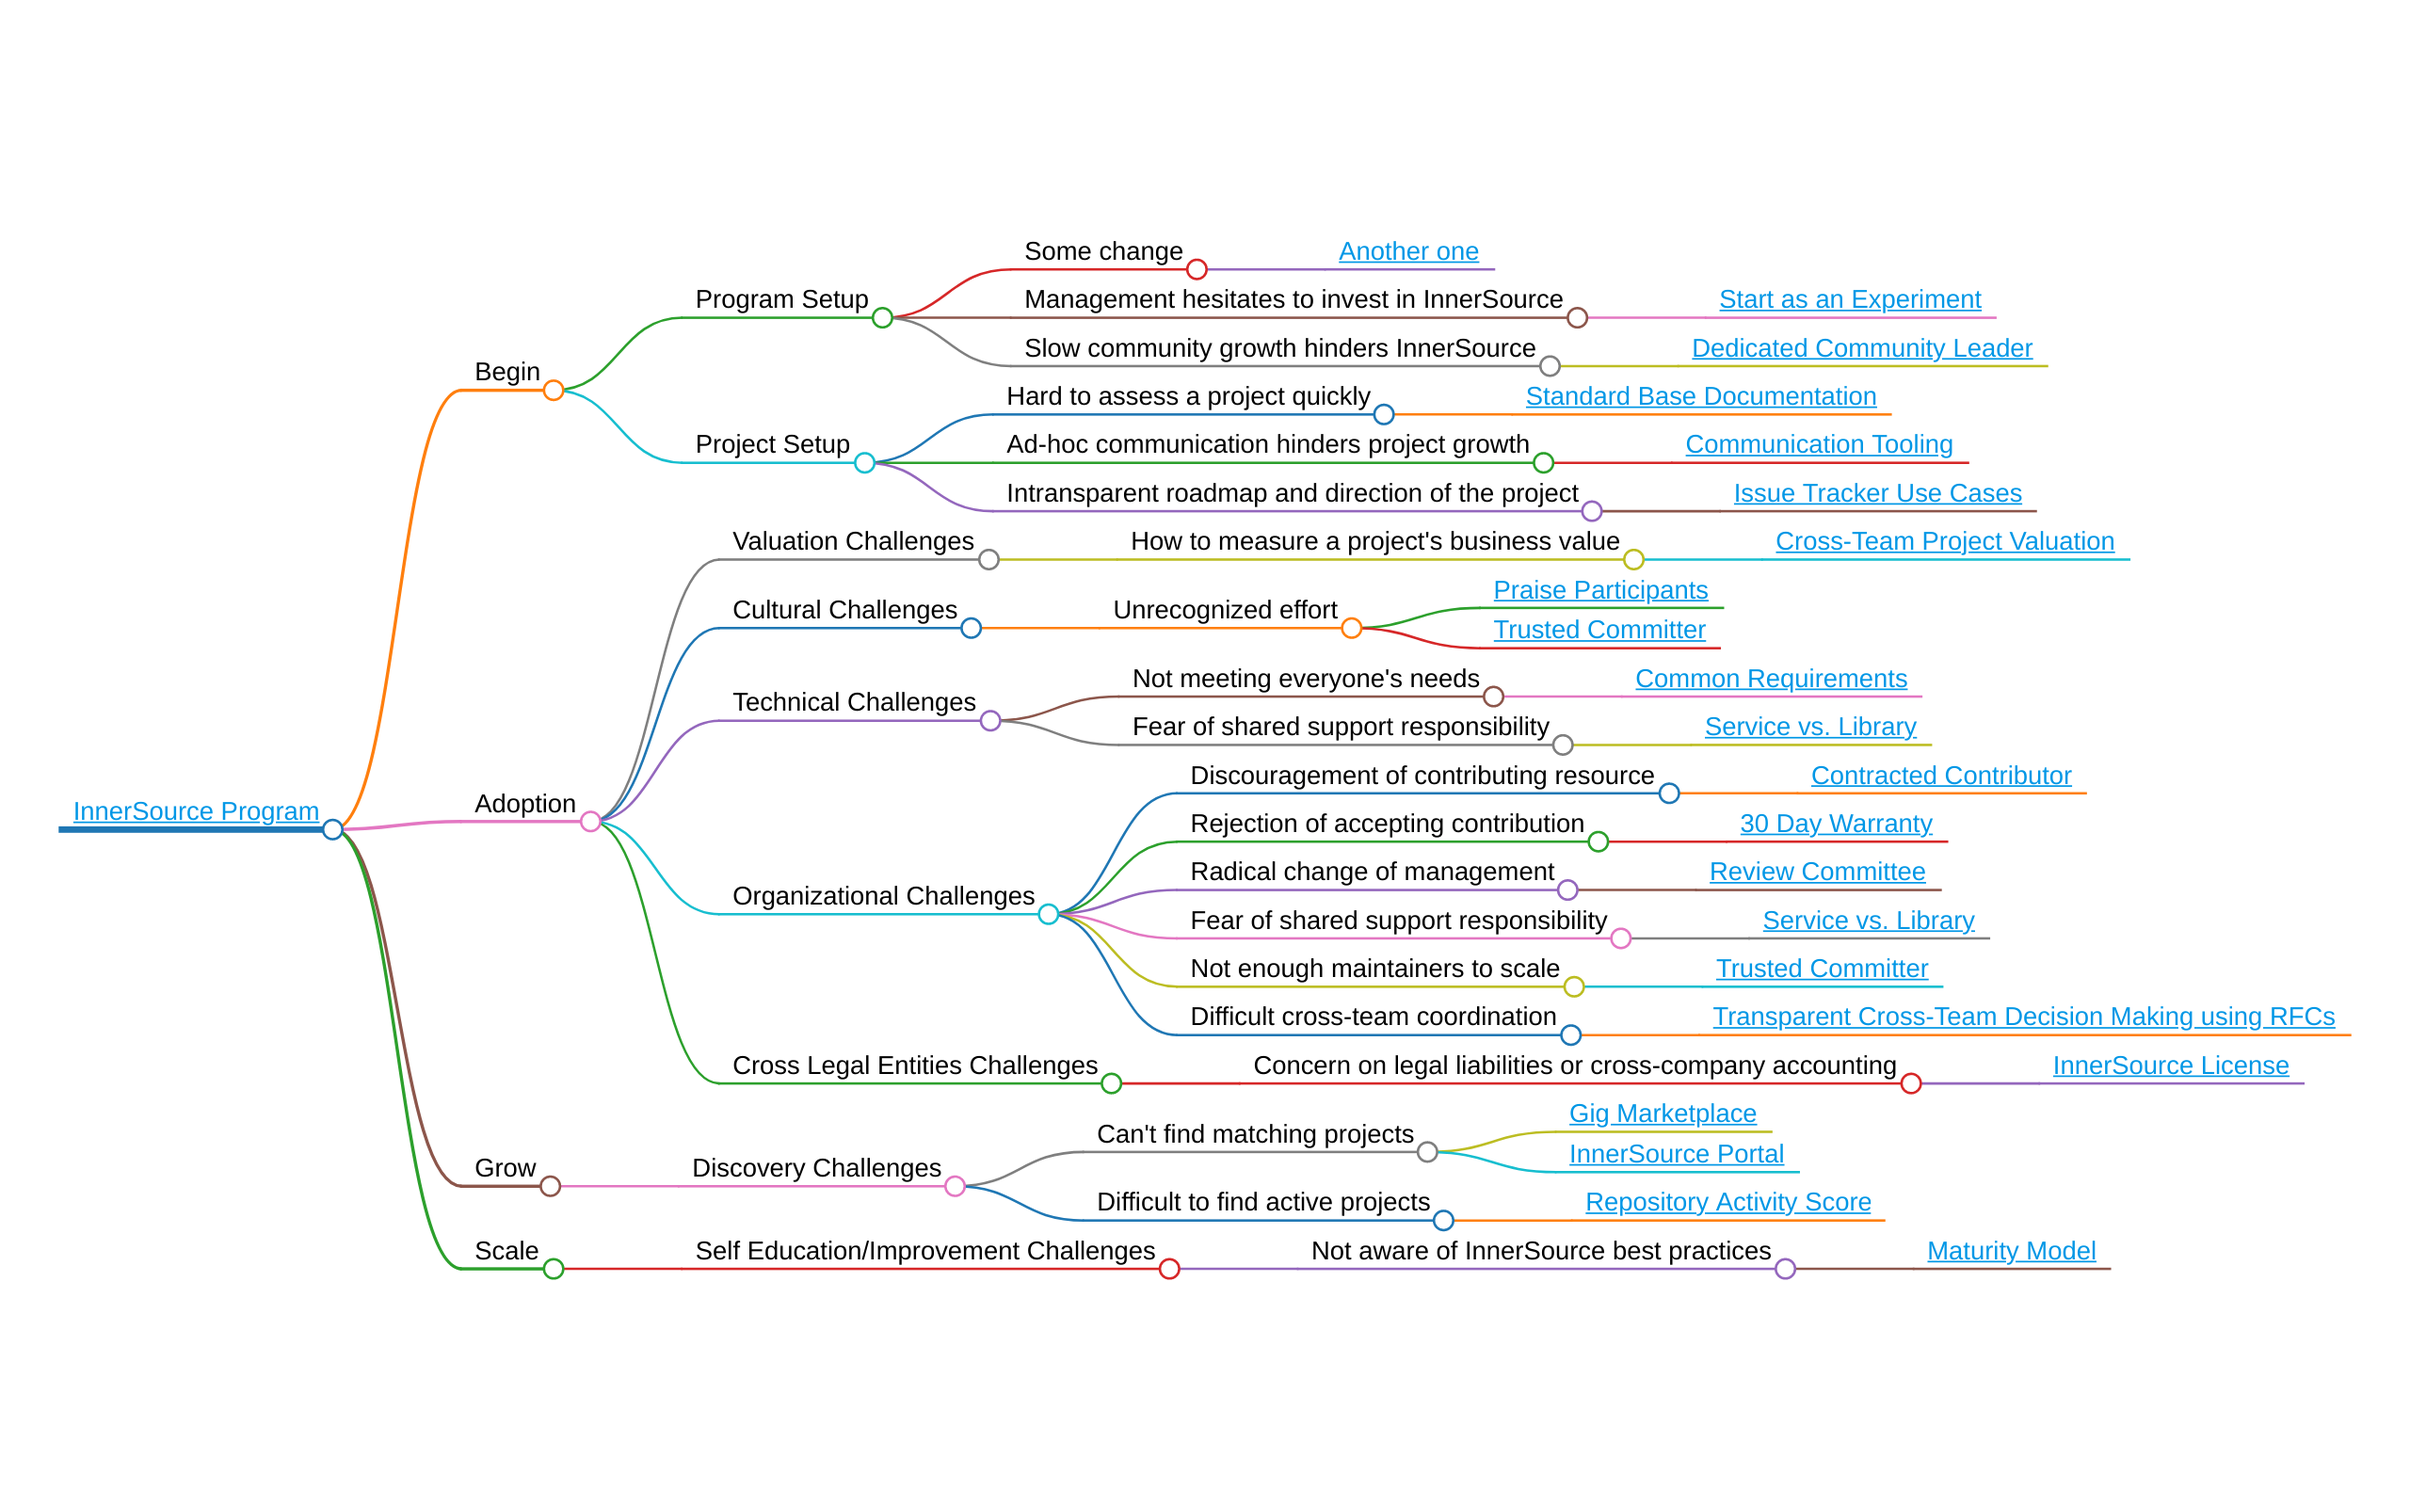
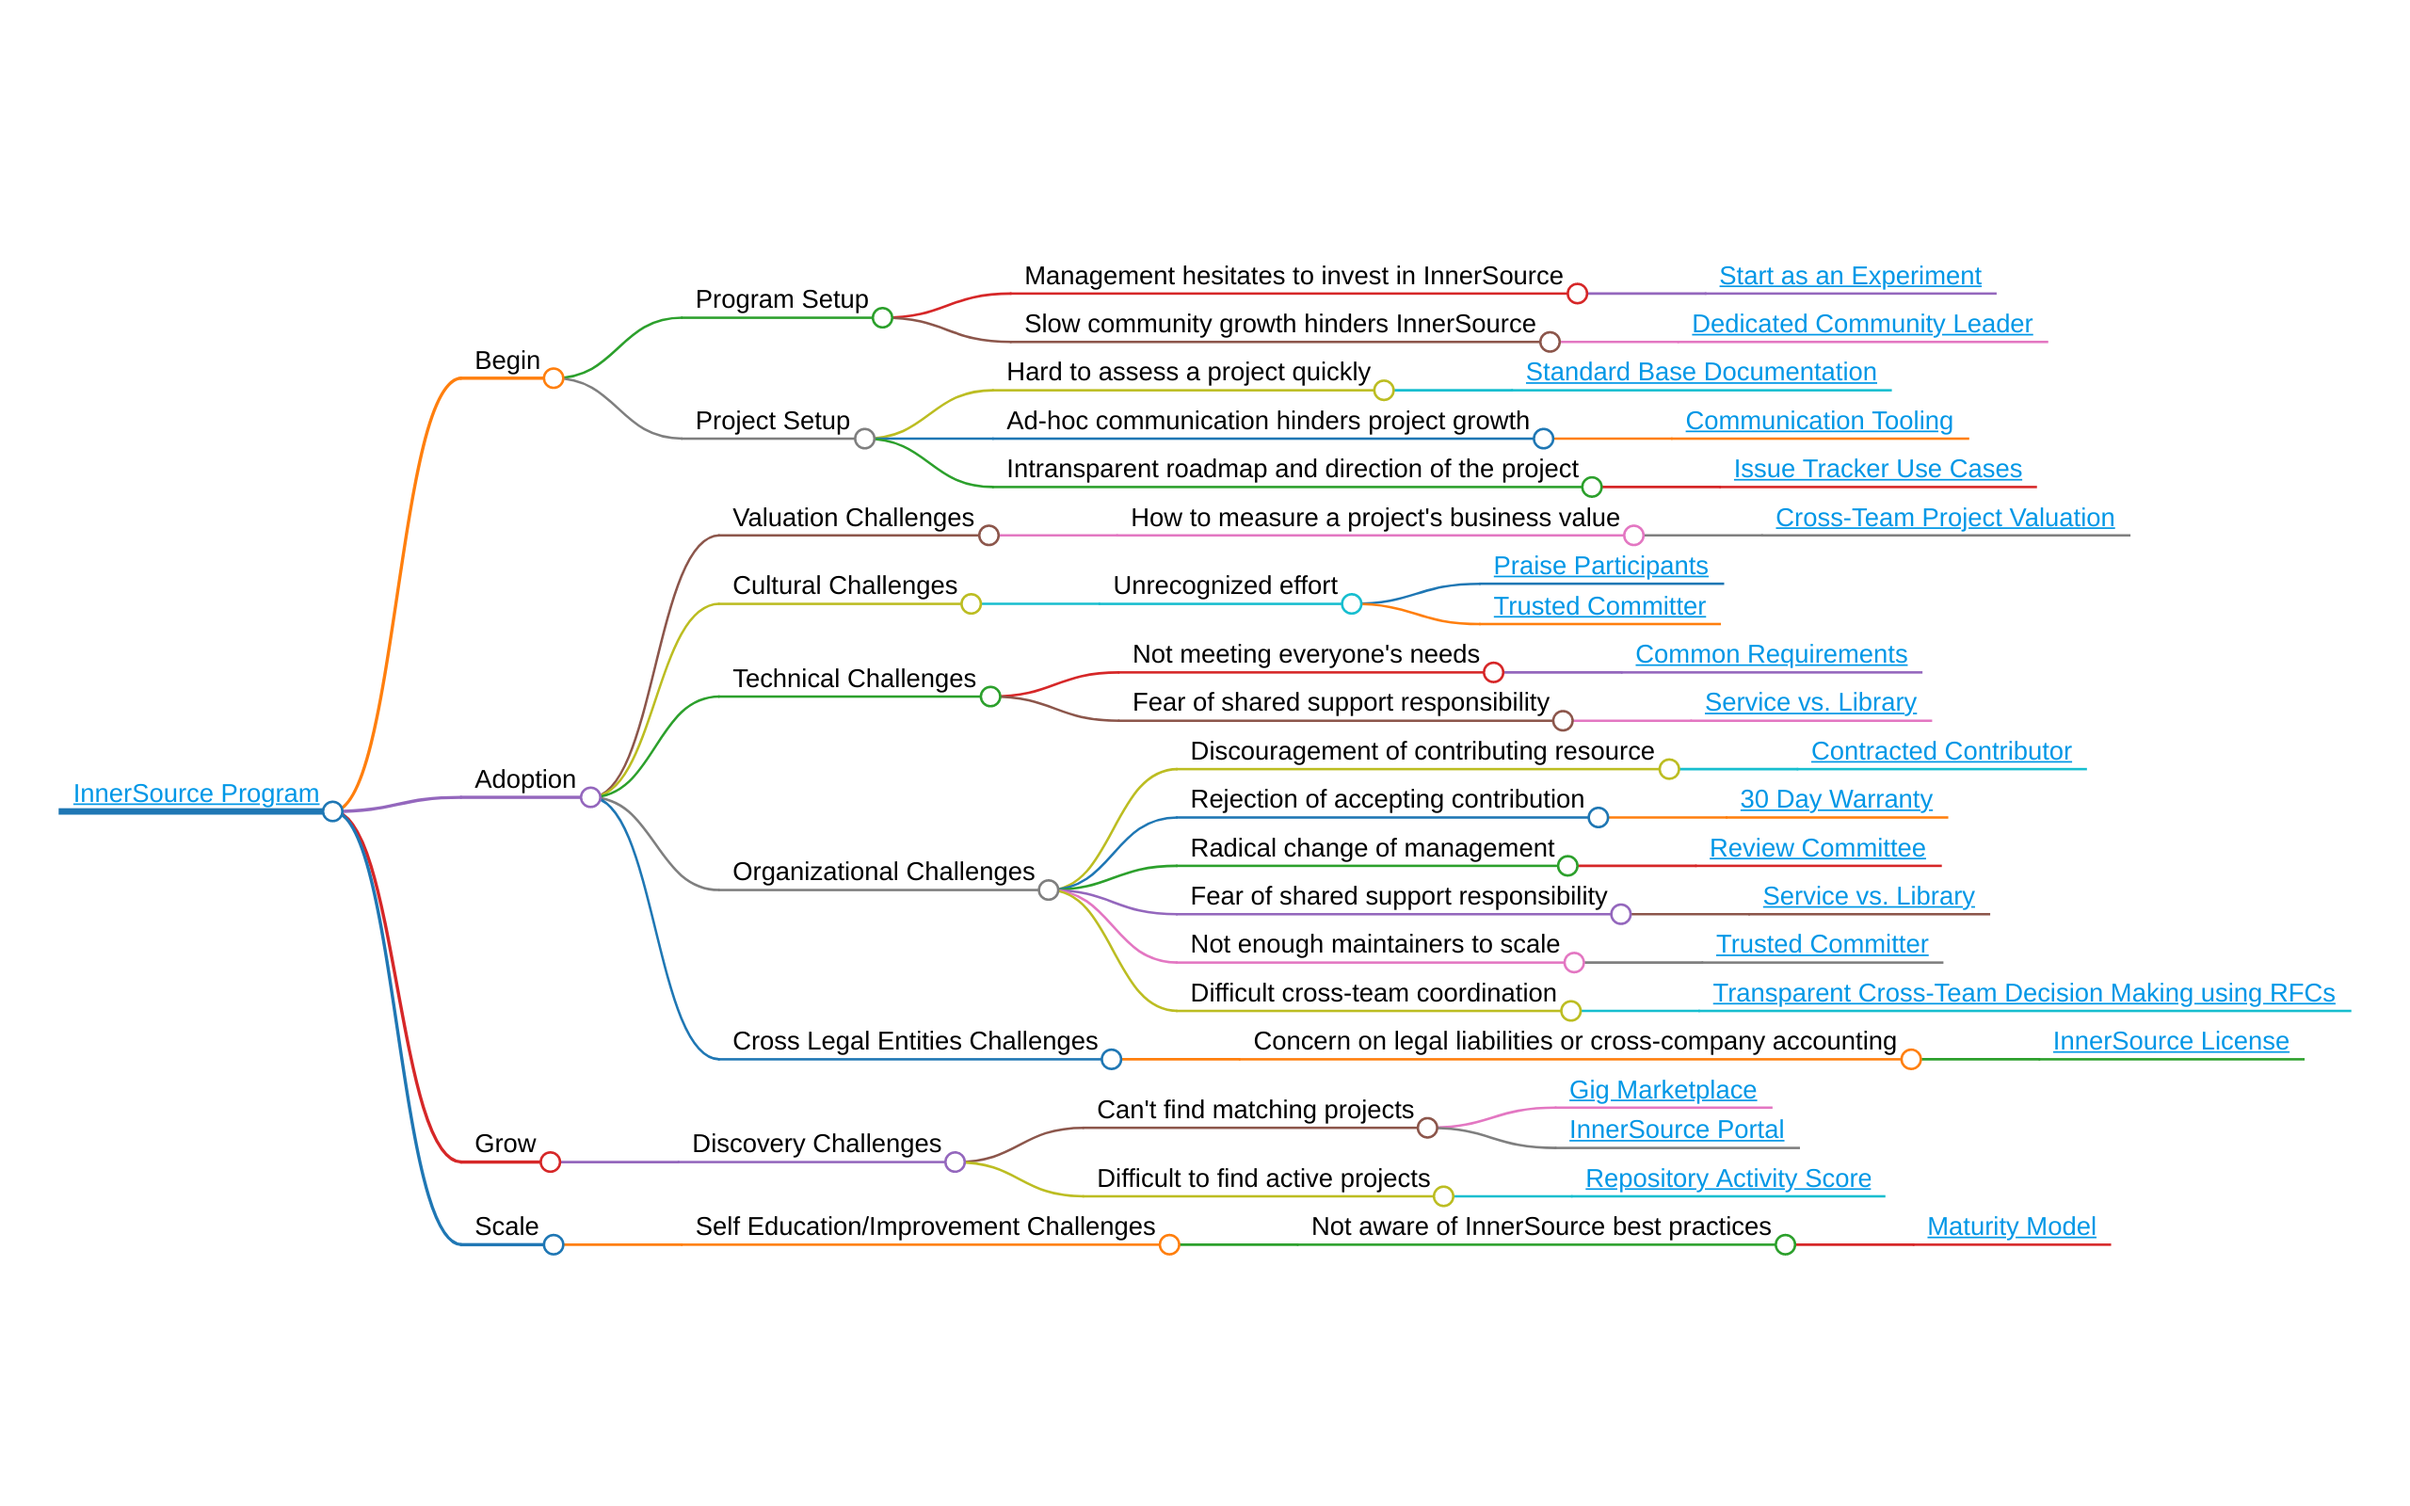
Re-creating markmap and screenshot

Changed region(s): [[0.0312, 0.1562, 0.9688, 0.8438], [0.1875, 0.2188, 0.25, 0.2812]]

diff --git a/pattern-categorization/innersource-program-mind-map.html b/pattern-categorization/innersource-program-mind-map.html
@@ -25,6 +25,6 @@
           Markmap
         } = getMarkmap();
         window.mm = Markmap.create('svg#mindmap', getOptions == null ? void 0 : getOptions(), data);
-      })(() => window.markmap,null,{"t":"heading","d":1,"p":{"lines":[0,1]},"v":"<a href=\"https://patterns.innersourcecommons.org/toc\">InnerSource Program</a>","c":[{"t":"heading","d":2,"p":{"lines":[2,3]},"v":"Begin","c":[{"t":"heading","d":3,"p":{"lines":[4,5]},"v":"Program Setup","c":[{"t":"heading","d":4,"p":{"lines":[6,7]},"v":"Some change","c":[{"t":"heading","d":5,"p":{"lines":[8,9]},"v":"<a href=\"https://patterns.innersourcecommons.org/p/start-as-experiment\">Another one</a>"}]},{"t":"heading","d":4,"p":{"lines":[10,11]},"v":"Management hesitates to invest in InnerSource","c":[{"t":"heading","d":5,"p":{"lines":[12,13]},"v":"<a href=\"https://patterns.innersourcecommons.org/p/start-as-experiment\">Start as an Experiment</a>"}]},{"t":"heading","d":4,"p":{"lines":[14,15]},"v":"Slow community growth hinders InnerSource","c":[{"t":"heading","d":5,"p":{"lines":[16,17]},"v":"<a href=\"https://patterns.innersourcecommons.org/p/dedicated-community-leader\">Dedicated Community Leader</a>"}]}]},{"t":"heading","d":3,"p":{"lines":[18,19]},"v":"Project Setup","c":[{"t":"heading","d":4,"p":{"lines":[20,21]},"v":"Hard to assess a project quickly","c":[{"t":"heading","d":5,"p":{"lines":[22,23]},"v":"<a href=\"https://patterns.innersourcecommons.org/p/base-documentation\">Standard Base Documentation</a>"}]},{"t":"heading","d":4,"p":{"lines":[24,25]},"v":"Ad-hoc communication hinders project growth","c":[{"t":"heading","d":5,"p":{"lines":[26,27]},"v":"<a href=\"https://patterns.innersourcecommons.org/p/communication-tooling\">Communication Tooling</a>"}]},{"t":"heading","d":4,"p":{"lines":[28,29]},"v":"Intransparent roadmap and direction of the project","c":[{"t":"heading","d":5,"p":{"lines":[30,31]},"v":"<a href=\"https://patterns.innersourcecommons.org/p/issue-tracker\">Issue Tracker Use Cases</a>"}]}]}]},{"t":"heading","d":2,"p":{"lines":[32,33]},"v":"Adoption","c":[{"t":"heading","d":3,"p":{"lines":[34,35]},"v":"Valuation Challenges","c":[{"t":"heading","d":4,"p":{"lines":[36,37]},"v":"How to measure a project's business value","c":[{"t":"heading","d":5,"p":{"lines":[38,39]},"v":"<a href=\"https://patterns.innersourcecommons.org/p/crossteam-project-valuation\">Cross-Team Project Valuation</a>"}]}]},{"t":"heading","d":3,"p":{"lines":[40,41]},"v":"Cultural Challenges","c":[{"t":"heading","d":4,"p":{"lines":[42,43]},"v":"Unrecognized effort","c":[{"t":"heading","d":5,"p":{"lines":[44,45]},"v":"<a href=\"https://patterns.innersourcecommons.org/p/praise-participants\">Praise Participants</a>"},{"t":"heading","d":5,"p":{"lines":[46,47]},"v":"<a href=\"https://patterns.innersourcecommons.org/p/trusted-committer\">Trusted Committer</a>"}]}]},{"t":"heading","d":3,"p":{"lines":[48,49]},"v":"Technical Challenges","c":[{"t":"heading","d":4,"p":{"lines":[50,51]},"v":"Not meeting everyone's needs","c":[{"t":"heading","d":5,"p":{"lines":[52,53]},"v":"<a href=\"https://patterns.innersourcecommons.org/p/common-requirements\">Common Requirements</a>"}]},{"t":"heading","d":4,"p":{"lines":[54,55]},"v":"Fear of shared support responsibility","c":[{"t":"heading","d":5,"p":{"lines":[56,57]},"v":"<a href=\"https://patterns.innersourcecommons.org/p/service-vs-library\">Service vs. Library</a>"}]}]},{"t":"heading","d":3,"p":{"lines":[58,59]},"v":"Organizational Challenges","c":[{"t":"heading","d":4,"p":{"lines":[60,61]},"v":"Discouragement of contributing resource","c":[{"t":"heading","d":5,"p":{"lines":[62,63]},"v":"<a href=\"https://patterns.innersourcecommons.org/p/contracted-contributor\">Contracted Contributor</a>"}]},{"t":"heading","d":4,"p":{"lines":[64,65]},"v":"Rejection of accepting contribution","c":[{"t":"heading","d":5,"p":{"lines":[66,67]},"v":"<a href=\"https://patterns.innersourcecommons.org/p/30-day-warranty\">30 Day Warranty</a>"}]},{"t":"heading","d":4,"p":{"lines":[68,69]},"v":"Radical change of management","c":[{"t":"heading","d":5,"p":{"lines":[70,71]},"v":"<a href=\"https://patterns.innersourcecommons.org/p/review-committee\">Review Committee</a>"}]},{"t":"heading","d":4,"p":{"lines":[72,73]},"v":"Fear of shared support responsibility","c":[{"t":"heading","d":5,"p":{"lines":[74,75]},"v":"<a href=\"https://patterns.innersourcecommons.org/p/service-vs-library\">Service vs. Library</a>"}]},{"t":"heading","d":4,"p":{"lines":[76,77]},"v":"Not enough maintainers to scale","c":[{"t":"heading","d":5,"p":{"lines":[78,79]},"v":"<a href=\"https://patterns.innersourcecommons.org/p/trusted-committer\">Trusted Committer</a>"}]},{"t":"heading","d":4,"p":{"lines":[80,81]},"v":"Difficult cross-team coordination","c":[{"t":"heading","d":5,"p":{"lines":[82,83]},"v":"<a href=\"https://patterns.innersourcecommons.org/p/transparent-cross-team-decision-making-using-rfcs\">Transparent Cross-Team Decision Making using RFCs</a>"}]}]},{"t":"heading","d":3,"p":{"lines":[84,85]},"v":"Cross Legal Entities Challenges","c":[{"t":"heading","d":4,"p":{"lines":[86,87]},"v":"Concern on legal liabilities or cross-company accounting","c":[{"t":"heading","d":5,"p":{"lines":[88,89]},"v":"<a href=\"https://patterns.innersourcecommons.org/p/innersource-license\">InnerSource License</a>"}]}]}]},{"t":"heading","d":2,"p":{"lines":[90,91]},"v":"Grow","c":[{"t":"heading","d":3,"p":{"lines":[92,93]},"v":"Discovery Challenges","c":[{"t":"heading","d":4,"p":{"lines":[94,95]},"v":"Can't find matching projects","c":[{"t":"heading","d":5,"p":{"lines":[96,97]},"v":"<a href=\"https://patterns.innersourcecommons.org/p/gig-marketplace\">Gig Marketplace</a>"},{"t":"heading","d":5,"p":{"lines":[98,99]},"v":"<a href=\"https://patterns.innersourcecommons.org/p/innersource-portal\">InnerSource Portal</a>"}]},{"t":"heading","d":4,"p":{"lines":[100,101]},"v":"Difficult to find active projects","c":[{"t":"heading","d":5,"p":{"lines":[102,103]},"v":"<a href=\"https://patterns.innersourcecommons.org/p/repository-activity-score\">Repository Activity Score</a>"}]}]}]},{"t":"heading","d":2,"p":{"lines":[104,105]},"v":"Scale","c":[{"t":"heading","d":3,"p":{"lines":[106,107]},"v":"Self Education/Improvement Challenges","c":[{"t":"heading","d":4,"p":{"lines":[108,109]},"v":"Not aware of InnerSource best practices","c":[{"t":"heading","d":5,"p":{"lines":[110,111]},"v":"<a href=\"https://patterns.innersourcecommons.org/p/maturity-model\">Maturity Model</a>"}]}]}]}]})</script>
+      })(() => window.markmap,null,{"t":"heading","d":1,"p":{"lines":[0,1]},"v":"<a href=\"https://patterns.innersourcecommons.org/toc\">InnerSource Program</a>","c":[{"t":"heading","d":2,"p":{"lines":[2,3]},"v":"Begin","c":[{"t":"heading","d":3,"p":{"lines":[4,5]},"v":"Program Setup","c":[{"t":"heading","d":4,"p":{"lines":[6,7]},"v":"Management hesitates to invest in InnerSource","c":[{"t":"heading","d":5,"p":{"lines":[8,9]},"v":"<a href=\"https://patterns.innersourcecommons.org/p/start-as-experiment\">Start as an Experiment</a>"}]},{"t":"heading","d":4,"p":{"lines":[10,11]},"v":"Slow community growth hinders InnerSource","c":[{"t":"heading","d":5,"p":{"lines":[12,13]},"v":"<a href=\"https://patterns.innersourcecommons.org/p/dedicated-community-leader\">Dedicated Community Leader</a>"}]}]},{"t":"heading","d":3,"p":{"lines":[14,15]},"v":"Project Setup","c":[{"t":"heading","d":4,"p":{"lines":[16,17]},"v":"Hard to assess a project quickly","c":[{"t":"heading","d":5,"p":{"lines":[18,19]},"v":"<a href=\"https://patterns.innersourcecommons.org/p/base-documentation\">Standard Base Documentation</a>"}]},{"t":"heading","d":4,"p":{"lines":[20,21]},"v":"Ad-hoc communication hinders project growth","c":[{"t":"heading","d":5,"p":{"lines":[22,23]},"v":"<a href=\"https://patterns.innersourcecommons.org/p/communication-tooling\">Communication Tooling</a>"}]},{"t":"heading","d":4,"p":{"lines":[24,25]},"v":"Intransparent roadmap and direction of the project","c":[{"t":"heading","d":5,"p":{"lines":[26,27]},"v":"<a href=\"https://patterns.innersourcecommons.org/p/issue-tracker\">Issue Tracker Use Cases</a>"}]}]}]},{"t":"heading","d":2,"p":{"lines":[28,29]},"v":"Adoption","c":[{"t":"heading","d":3,"p":{"lines":[30,31]},"v":"Valuation Challenges","c":[{"t":"heading","d":4,"p":{"lines":[32,33]},"v":"How to measure a project's business value","c":[{"t":"heading","d":5,"p":{"lines":[34,35]},"v":"<a href=\"https://patterns.innersourcecommons.org/p/crossteam-project-valuation\">Cross-Team Project Valuation</a>"}]}]},{"t":"heading","d":3,"p":{"lines":[36,37]},"v":"Cultural Challenges","c":[{"t":"heading","d":4,"p":{"lines":[38,39]},"v":"Unrecognized effort","c":[{"t":"heading","d":5,"p":{"lines":[40,41]},"v":"<a href=\"https://patterns.innersourcecommons.org/p/praise-participants\">Praise Participants</a>"},{"t":"heading","d":5,"p":{"lines":[42,43]},"v":"<a href=\"https://patterns.innersourcecommons.org/p/trusted-committer\">Trusted Committer</a>"}]}]},{"t":"heading","d":3,"p":{"lines":[44,45]},"v":"Technical Challenges","c":[{"t":"heading","d":4,"p":{"lines":[46,47]},"v":"Not meeting everyone's needs","c":[{"t":"heading","d":5,"p":{"lines":[48,49]},"v":"<a href=\"https://patterns.innersourcecommons.org/p/common-requirements\">Common Requirements</a>"}]},{"t":"heading","d":4,"p":{"lines":[50,51]},"v":"Fear of shared support responsibility","c":[{"t":"heading","d":5,"p":{"lines":[52,53]},"v":"<a href=\"https://patterns.innersourcecommons.org/p/service-vs-library\">Service vs. Library</a>"}]}]},{"t":"heading","d":3,"p":{"lines":[54,55]},"v":"Organizational Challenges","c":[{"t":"heading","d":4,"p":{"lines":[56,57]},"v":"Discouragement of contributing resource","c":[{"t":"heading","d":5,"p":{"lines":[58,59]},"v":"<a href=\"https://patterns.innersourcecommons.org/p/contracted-contributor\">Contracted Contributor</a>"}]},{"t":"heading","d":4,"p":{"lines":[60,61]},"v":"Rejection of accepting contribution","c":[{"t":"heading","d":5,"p":{"lines":[62,63]},"v":"<a href=\"https://patterns.innersourcecommons.org/p/30-day-warranty\">30 Day Warranty</a>"}]},{"t":"heading","d":4,"p":{"lines":[64,65]},"v":"Radical change of management","c":[{"t":"heading","d":5,"p":{"lines":[66,67]},"v":"<a href=\"https://patterns.innersourcecommons.org/p/review-committee\">Review Committee</a>"}]},{"t":"heading","d":4,"p":{"lines":[68,69]},"v":"Fear of shared support responsibility","c":[{"t":"heading","d":5,"p":{"lines":[70,71]},"v":"<a href=\"https://patterns.innersourcecommons.org/p/service-vs-library\">Service vs. Library</a>"}]},{"t":"heading","d":4,"p":{"lines":[72,73]},"v":"Not enough maintainers to scale","c":[{"t":"heading","d":5,"p":{"lines":[74,75]},"v":"<a href=\"https://patterns.innersourcecommons.org/p/trusted-committer\">Trusted Committer</a>"}]},{"t":"heading","d":4,"p":{"lines":[76,77]},"v":"Difficult cross-team coordination","c":[{"t":"heading","d":5,"p":{"lines":[78,79]},"v":"<a href=\"https://patterns.innersourcecommons.org/p/transparent-cross-team-decision-making-using-rfcs\">Transparent Cross-Team Decision Making using RFCs</a>"}]}]},{"t":"heading","d":3,"p":{"lines":[80,81]},"v":"Cross Legal Entities Challenges","c":[{"t":"heading","d":4,"p":{"lines":[82,83]},"v":"Concern on legal liabilities or cross-company accounting","c":[{"t":"heading","d":5,"p":{"lines":[84,85]},"v":"<a href=\"https://patterns.innersourcecommons.org/p/innersource-license\">InnerSource License</a>"}]}]}]},{"t":"heading","d":2,"p":{"lines":[86,87]},"v":"Grow","c":[{"t":"heading","d":3,"p":{"lines":[88,89]},"v":"Discovery Challenges","c":[{"t":"heading","d":4,"p":{"lines":[90,91]},"v":"Can't find matching projects","c":[{"t":"heading","d":5,"p":{"lines":[92,93]},"v":"<a href=\"https://patterns.innersourcecommons.org/p/gig-marketplace\">Gig Marketplace</a>"},{"t":"heading","d":5,"p":{"lines":[94,95]},"v":"<a href=\"https://patterns.innersourcecommons.org/p/innersource-portal\">InnerSource Portal</a>"}]},{"t":"heading","d":4,"p":{"lines":[96,97]},"v":"Difficult to find active projects","c":[{"t":"heading","d":5,"p":{"lines":[98,99]},"v":"<a href=\"https://patterns.innersourcecommons.org/p/repository-activity-score\">Repository Activity Score</a>"}]}]}]},{"t":"heading","d":2,"p":{"lines":[100,101]},"v":"Scale","c":[{"t":"heading","d":3,"p":{"lines":[102,103]},"v":"Self Education/Improvement Challenges","c":[{"t":"heading","d":4,"p":{"lines":[104,105]},"v":"Not aware of InnerSource best practices","c":[{"t":"heading","d":5,"p":{"lines":[106,107]},"v":"<a href=\"https://patterns.innersourcecommons.org/p/maturity-model\">Maturity Model</a>"}]}]}]}]})</script>
 </body>
 </html>
